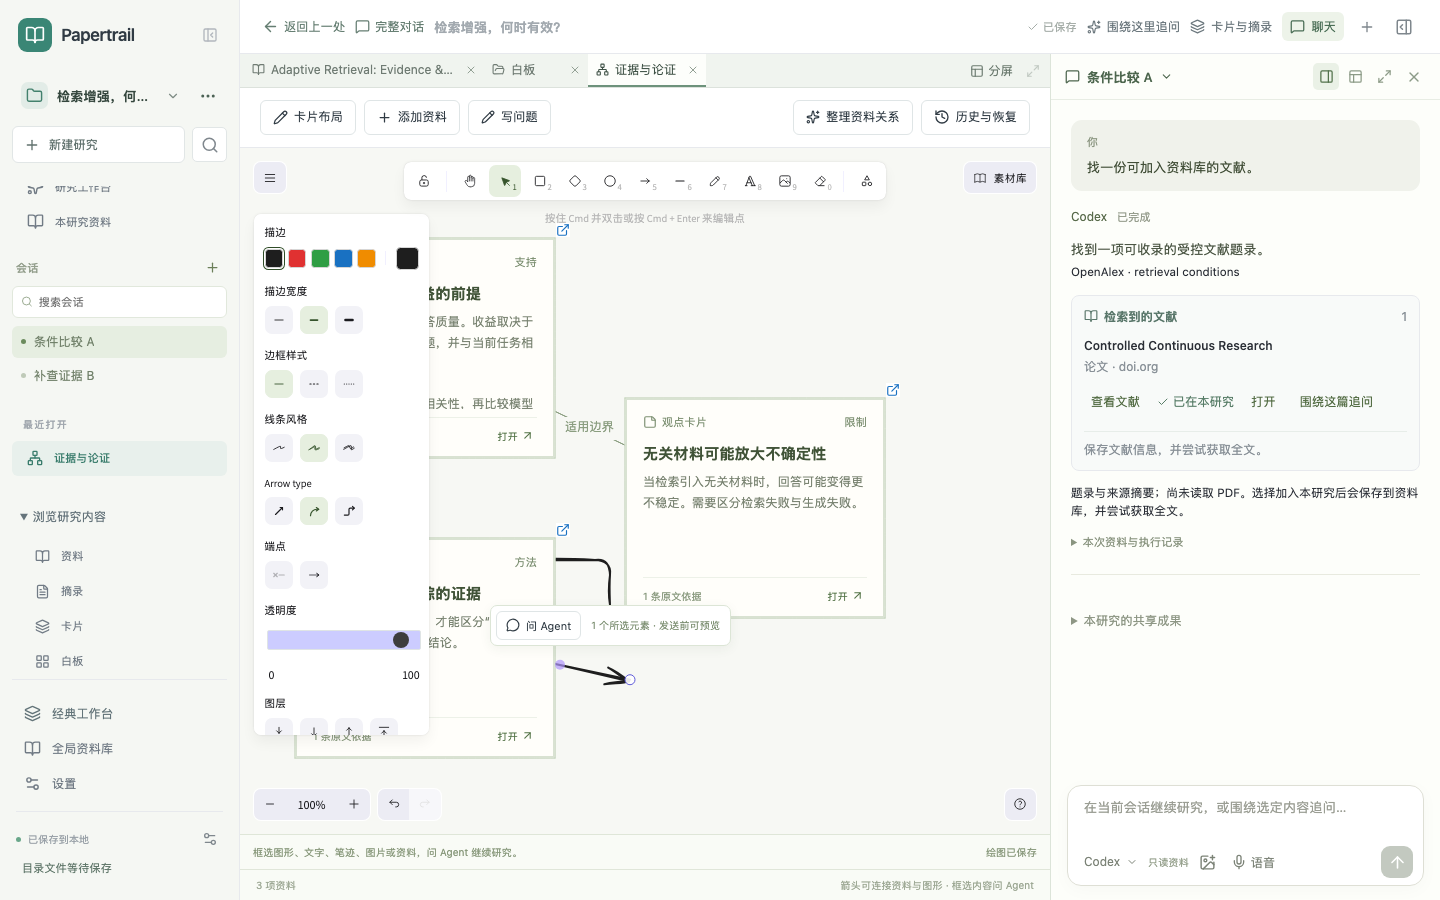
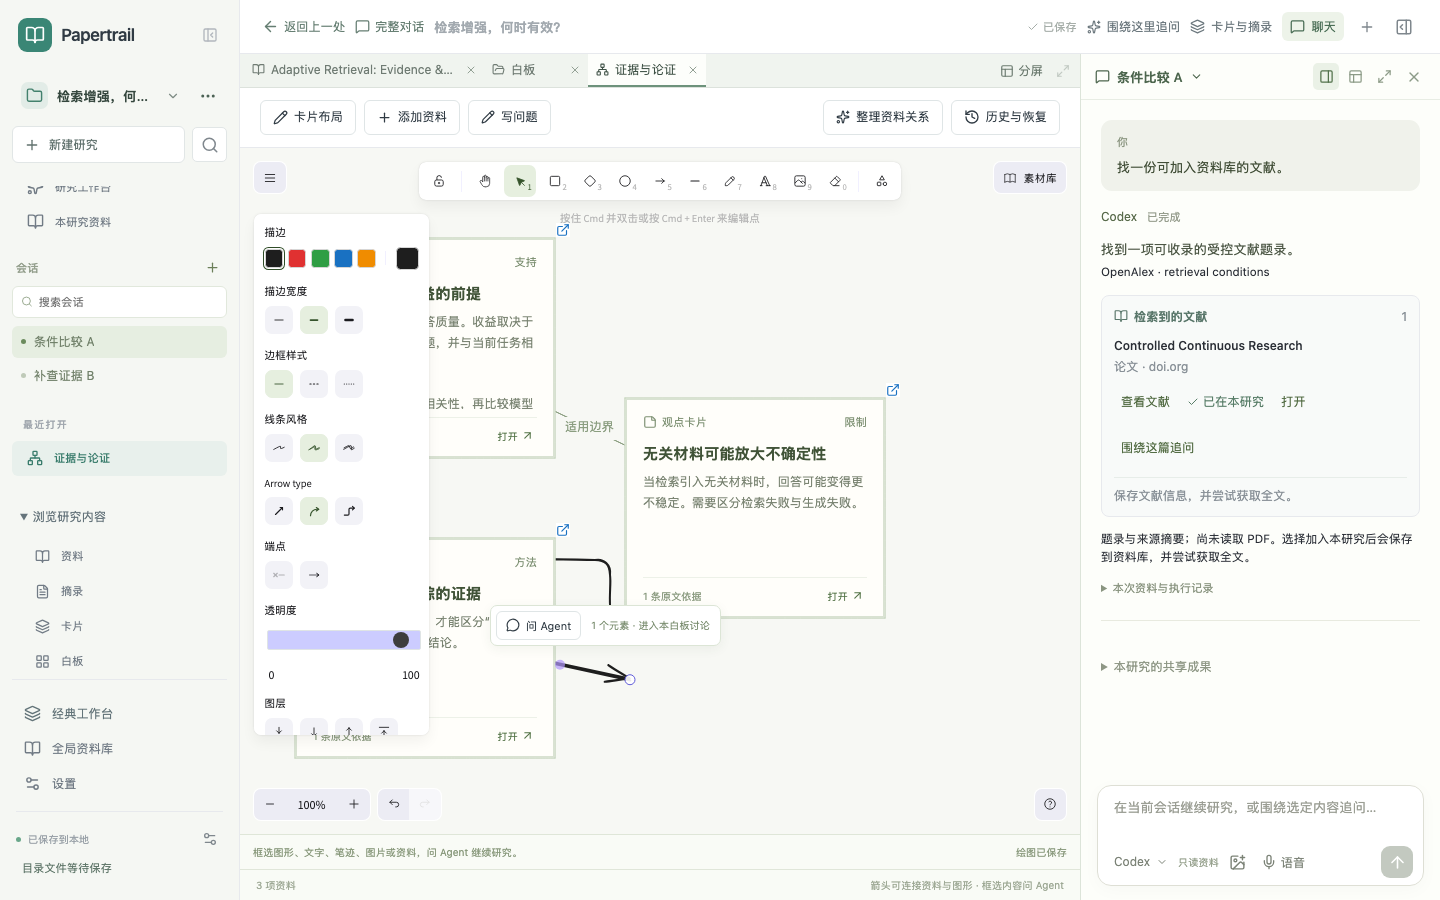
fix: 侧边聊天恢复可拖动调宽
连续工作区把右侧面板换成侧边聊天时宽度写死为 390px，分隔条丢失。
恢复左缘分隔条（拖动、双击复位、方向键），宽度沿用 panelWidth 并刷新保留，主区至少留 360px。
新增拖宽与刷新恢复的 e2e 用例；截图随测试重新生成。

diff --git a/src/shell/workbench-shell.css b/src/shell/workbench-shell.css
@@ -38,7 +38,7 @@
 }
 .agent-workbench .agent-return { display: flex; align-items: center; gap: 5px; flex-shrink: 0; color: #657e72; font-size: 12px; }
 
-.continuous-workspace { position: relative; flex: 1; display: flex; min-height: 0; min-width: 0; overflow: hidden; }
+.continuous-workspace { --chat-side-width: min(var(--panel-width, 360px), calc(100% - 360px)); position: relative; flex: 1; display: flex; min-height: 0; min-width: 0; overflow: hidden; }
 .continuous-workspace > .main-workspace { height: 100%; }
 .continuous-workspace.chat-mode-main > .main-workspace { visibility: hidden; pointer-events: none; }
 .agent-workbench .sidebar { background: #f5f7f3; padding-top: 18px; }
@@ -50,7 +50,7 @@
 .research-conversation-host { position: relative; display: flex; flex-direction: column; min-width: 0; min-height: 0; height: 100%; background: #fdfefa; color: #465447; }
 .research-conversation-host[hidden] { display: none; }
 .research-conversation-host.chat-main { position: absolute; inset: 0; z-index: 3; }
-.research-conversation-host.chat-side { flex: 0 0 390px; width: 390px; max-width: 47%; border-left: 1px solid #dce4d9; }
+.research-conversation-host.chat-side { flex: 0 0 var(--chat-side-width); width: var(--chat-side-width); border-left: 1px solid #dce4d9; }
 .research-conversation-host.chat-float { position: fixed; top: 100px; right: 30px; z-index: 35; width: 400px; height: min(600px, calc(100dvh - 130px)); max-width: calc(100vw - 24px); max-height: calc(100dvh - 80px); border: 1px solid #d8e2d5; border-radius: 13px; box-shadow: 0 14px 55px #253e2c28; overflow: visible; }
 .conversation-host-header { flex: none; min-height: 46px; display: flex; align-items: center; justify-content: space-between; gap: 10px; padding: 8px 14px; border-bottom: 1px solid #e8ede4; position: relative; }
 .chat-float .conversation-host-header { cursor: move; touch-action: none; background: #f7faf3; border-radius: 13px 13px 0 0; }
@@ -89,12 +89,10 @@
 .conversation-host-body .ai-chat-head .ai-chat-title, .conversation-host-body .ai-chat-head [aria-label="查看会话历史"], .conversation-host-body .ai-chat-head [aria-label="新建干净对话"] { display: none; }
 .conversation-host-body .ai-chat-head { min-height: 30px; justify-content: flex-start; padding: 4px 16px; }
 .conversation-host-body .ai-subhead { flex-shrink: 0; }
-@media (max-width: 1280px) { .research-conversation-host.chat-side { flex-basis: 355px; width: 355px; } .agent-workbench .header-actions { gap: 7px; } .agent-workbench .header-actions .text-button { font-size: 11px; } .conversation-host-header { padding-inline: 10px; } }
-@media (max-width: 1024px) { .research-conversation-host.chat-side { flex-basis: 340px; width: 340px; max-width: 48%; } .agent-workbench .header-actions .agent-local-ask { display: none; } .agent-workbench .agent-return span { display: none; } .conversation-host-body .research-agent-home { padding: 18px; } }
-.continuous-workspace.chat-mode-side > .workspace-notes-surface { right: calc(min(390px, 47%) + 12px); max-width: calc(100% - min(390px, 47%) - 24px); }
+@media (max-width: 1280px) { .agent-workbench .header-actions { gap: 7px; } .agent-workbench .header-actions .text-button { font-size: 11px; } .conversation-host-header { padding-inline: 10px; } }
+@media (max-width: 1024px) { .agent-workbench .header-actions .agent-local-ask { display: none; } .agent-workbench .agent-return span { display: none; } .conversation-host-body .research-agent-home { padding: 18px; } }
+.continuous-workspace.chat-mode-side > .workspace-notes-surface { right: calc(var(--chat-side-width) + 12px); max-width: calc(100% - var(--chat-side-width) - 24px); }
 .continuous-workspace.chat-mode-float > .workspace-notes-surface { left: 12px; right: auto; }
-@media (max-width: 1280px) { .continuous-workspace.chat-mode-side > .workspace-notes-surface { right: calc(min(355px, 47%) + 12px); max-width: calc(100% - min(355px, 47%) - 24px); } }
-@media (max-width: 1024px) { .continuous-workspace.chat-mode-side > .workspace-notes-surface { right: calc(min(340px, 48%) + 12px); max-width: calc(100% - min(340px, 48%) - 24px); } }
 .conversation-host-body .research-agent-config { left: 16px; right: auto; width: 250px; max-width: calc(100% - 32px); padding: 9px; }
 .research-agent-options { display: flex; flex-direction: column; gap: 2px; }
 .research-agent-options > button { display: flex; align-items: center; justify-content: space-between; width: 100%; text-align: left; padding: 7px 8px; font-size: 12px; border-radius: 5px; }

diff --git a/src/features/workbench/ResearchConversationHost.tsx b/src/features/workbench/ResearchConversationHost.tsx
@@ -46,6 +46,12 @@ export function ResearchConversationHost({ researchId, mode, onMode }: { researc
     const width = Math.min(Math.max(340, rect.width), window.innerWidth - 24), height = Math.min(Math.max(320, rect.height), window.innerHeight - 80);
     return { width, height, left: Math.max(12, Math.min(rect.left, window.innerWidth - width - 12)), top: Math.max(64, Math.min(rect.top, window.innerHeight - height - 12)) };
   }
+  // Side width shares the right-panel width setting; the main area keeps at least 360px.
+  function resizeSide(width: number) {
+    const room = host.current?.parentElement?.getBoundingClientRect().width ?? window.innerWidth;
+    const next = Math.round(Math.max(320, Math.min(room - 360, width)));
+    if (next !== actions.getState().data.panelWidth) actions.updateData(state => { state.panelWidth = next; });
+  }
   function persistRect(rect: NonNullable<ChatState['rect']>) { actions.updateData(next => { next.sessions[researchId].agentChat = { mode: 'float', rect }; }); }
   useEffect(() => {
     if (mode !== 'float') return;
@@ -82,6 +88,14 @@ export function ResearchConversationHost({ researchId, mode, onMode }: { researc
       <div className="conversation-host-controls"><button aria-label="侧边聊天" title="侧边聊天" aria-pressed={mode === 'side'} onClick={() => onMode('side')}><PanelRight size={15}/></button><button aria-label="浮窗聊天" title="浮窗聊天" aria-pressed={mode === 'float'} onClick={() => onMode('float')}><PanelsTopLeft size={15}/></button><button aria-label="展开聊天" title="展开聊天" aria-pressed={mode === 'main'} onClick={() => onMode('main')}><Maximize2 size={15}/></button><button aria-label="关闭聊天" title="关闭聊天" onClick={() => onMode('closed')}><X size={16}/></button></div>
       {picker && <div className="conversation-host-picker" role="dialog" aria-label="选择会话"><label className="conversation-search"><Search size={14}/><input aria-label="查找会话" value={query} onChange={event => setQuery(event.target.value)} autoFocus placeholder="搜索会话"/></label><button className="conversation-new" onClick={create}><Plus size={15}/>开始新会话</button><div>{conversations.map(item => <button key={item.id} className="conversation-picker-row" aria-current={item.id === current?.id ? 'true' : undefined} onClick={() => select(item.id)}>{item.title?.trim() || '新会话'}</button>)}{!conversations.length && <p className="conversation-empty">没有匹配的会话</p>}</div></div>}
     </header>
+    {mode === 'side' && <div className="resize-handle" role="separator" aria-label="调整聊天宽度" aria-orientation="vertical" aria-valuemin={320} aria-valuenow={data.panelWidth} title="拖动调整宽度，双击恢复默认宽度" tabIndex={0}
+      onDoubleClick={() => resizeSide(360)}
+      onKeyDown={event => {
+        if (!['ArrowLeft', 'ArrowRight'].includes(event.key)) return;
+        event.preventDefault(); resizeSide(host.current!.getBoundingClientRect().width + (event.key === 'ArrowLeft' ? 10 : -10) * (event.shiftKey ? 4 : 1));
+      }}
+      onPointerDown={event => { event.preventDefault(); event.currentTarget.setPointerCapture(event.pointerId); }}
+      onPointerMove={event => { if (event.buttons === 1 && event.currentTarget.hasPointerCapture(event.pointerId)) resizeSide(host.current!.getBoundingClientRect().right - event.clientX); }}/>}
     <div className="conversation-host-body">{researchChat ? <><ResearchAgentHome researchId={researchId}/><ResearchAgentDock researchId={researchId}/></> : <AIPanel/>}</div>
     {mode === 'float' && <button className="conversation-host-resize" aria-label="调整聊天浮窗大小" title="拖动调整大小" onPointerDown={event => {
       if (event.button !== 0) return;

diff --git a/tests/e2e/continuous-workspace.spec.ts b/tests/e2e/continuous-workspace.spec.ts
@@ -44,6 +44,23 @@ test('资源中发送即清空并直接显示回答；紧凑会话切换保留 P
   fixture.assertClean();
 });
 
+test('侧边聊天可拖动分隔条调宽，宽度刷新后保留，主区不被挤没', async ({ page }) => {
+  await installControlledServices(page);
+  await page.goto('/'); await openSeedPaper(page);
+  const handle = chat(page).getByRole('separator', { name: '调整聊天宽度', exact: true });
+  const before = (await chat(page).boundingBox())!, grip = (await handle.boundingBox())!;
+  await page.mouse.move(grip.x + grip.width / 2, grip.y + 200); await page.mouse.down();
+  await page.mouse.move(grip.x - 150, grip.y + 200, { steps: 8 }); await page.mouse.up();
+  await expect.poll(async () => Math.round((await chat(page).boundingBox())!.width)).toBeGreaterThan(before.width + 120);
+  await page.mouse.move(grip.x - 150, grip.y + 200); await page.mouse.down();
+  await page.mouse.move(5, grip.y + 200, { steps: 8 }); await page.mouse.up();
+  expect((await main(page).boundingBox())!.width).toBeGreaterThanOrEqual(355);
+  await saved(page); const width = (await readData(page)).panelWidth;
+  await page.reload(); await expect(composer(page)).toBeVisible();
+  expect(Math.round((await chat(page).boundingBox())!.width)).toBe(width);
+  expect(await page.evaluate(() => document.documentElement.scrollWidth <= innerWidth)).toBe(true);
+});
+
 test('同一会话侧边、浮窗、完整显示连续移动；资源分屏、请求和草稿不复制', async ({ page }) => {
   const fixture = await installControlledServices(page);
   await page.goto('/'); await openSeedPaper(page);
